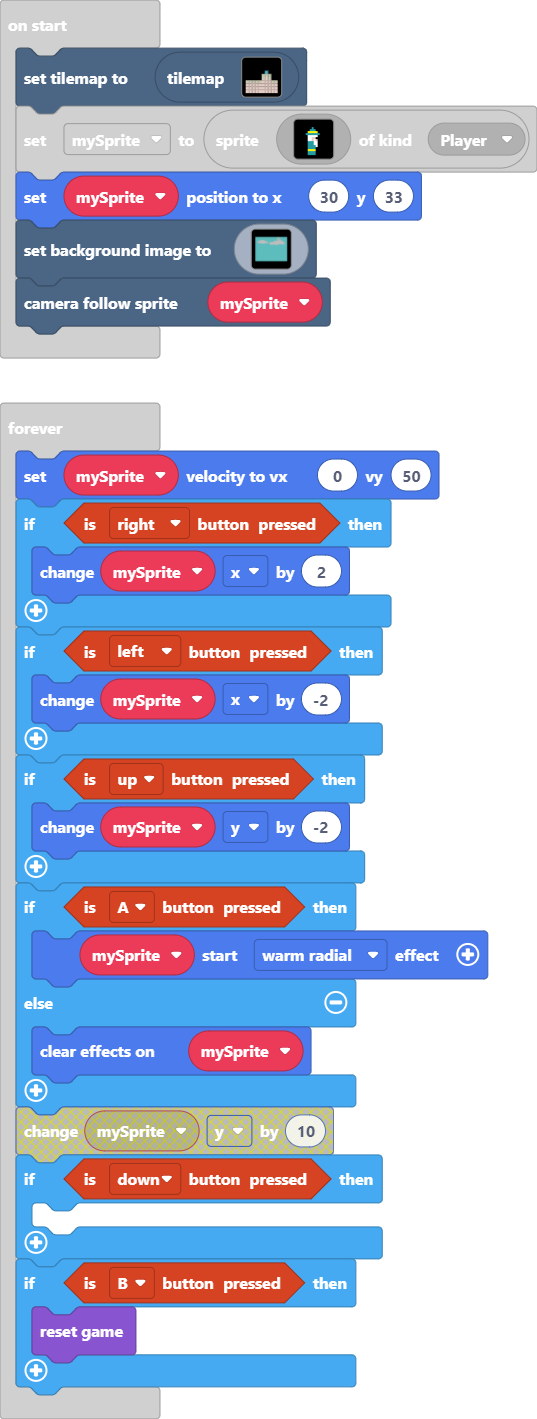
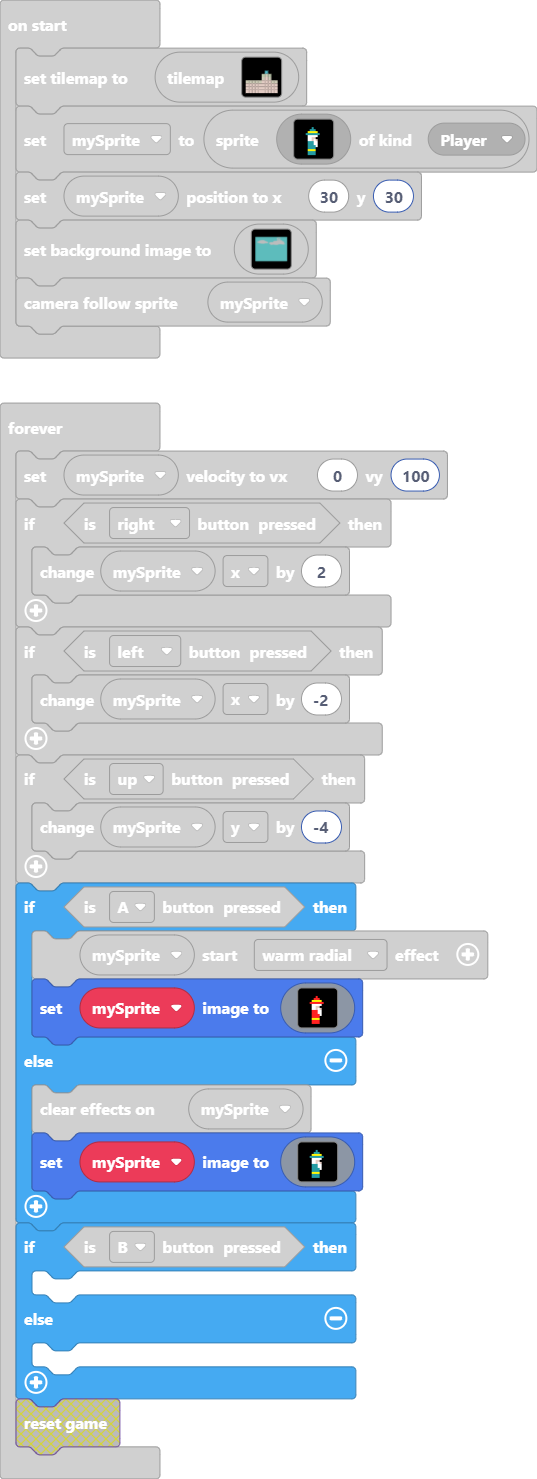
Update pxt.json, main.blocks, main.ts, images.g.jres, images.g.ts

diff --git a/images.g.ts b/images.g.ts
@@ -3,25 +3,6 @@ namespace myImages {
 
     helpers._registerFactory("image", function(name: string) {
         switch(helpers.stringTrim(name)) {
-            case "image1":
-            case "dah Wizard":return img`
-. . . . . . . . . . . . . . . . 
-. . . . . . . . . . . . . . . . 
-. . . . . . . 6 . . . . . . . . 
-. . . . . . 6 6 6 . . . . . . . 
-. . . . . 5 5 5 5 5 . . . . . . 
-. . . . 6 6 6 6 6 6 6 . . . . . 
-. . . . . 1 1 1 1 1 . . . . . . 
-. . . . . 1 1 d d f . . . . . . 
-. . . . . 1 1 d 1 d . . . . . . 
-. . . . . 6 6 6 1 1 . . . . . . 
-. . . . . 6 6 6 1 1 . . . . . . 
-. . . . . 6 6 6 6 1 . . . . . . 
-. . . . . 6 6 6 6 . . . . . . . 
-. . . . . 5 5 5 5 . . . . . . . 
-. . . . . 6 6 6 6 . . . . . . . 
-. . . . . 6 6 6 6 . . . . . . . 
-`;
             case "vTZGO,EA#$rR`clLS6L|":
             case "sus sky":return img`
 9999999999999999999999999999999999999999999999999999999999999999999999999999999999999999999999999999999999999999999999999999999999999999999999999999999999999999
@@ -144,6 +125,44 @@ namespace myImages {
 9999999999999999999999999999999999999999999999999999999999999999999999999999999999999999999999999999999999999999999999999999999999999999999999999999999999999999
 9999999999999999999999999999999999999999999999999999999999999999999999999999999999999999999999999999999999999999999999999999999999999999999999999999999999999999
 9999999999999999999999999999999999999999999999999999999999999999999999999999999999999999999999999999999999999999999999999999999999999999999999999999999999999999
+`;
+            case "image1":
+            case "dah Wizard":return img`
+. . . . . . . . . . . . . . . . 
+. . . . . . . . . . . . . . . . 
+. . . . . . . 6 . . . . . . . . 
+. . . . . . 6 6 6 . . . . . . . 
+. . . . . 5 5 5 5 5 . . . . . . 
+. . . . 6 6 6 6 6 6 6 . . . . . 
+. . . . . 1 1 1 1 1 . . . . . . 
+. . . . . 1 1 d d f . . . . . . 
+. . . . . 1 1 d 1 d . . . . . . 
+. . . . . 6 6 6 1 1 . . . . . . 
+. . . . . 6 6 6 1 1 . . . . . . 
+. . . . . 6 6 6 6 1 . . . . . . 
+. . . . . 6 6 6 6 . . . . . . . 
+. . . . . 5 5 5 5 . . . . . . . 
+. . . . . 6 6 6 6 . . . . . . . 
+. . . . . 6 6 6 6 . . . . . . . 
+`;
+            case "image2":
+            case "dah Wizard but red":return img`
+. . . . . . . . . . . . . . . . 
+. . . . . . . . . . . . . . . . 
+. . . . . . . 2 . . . . . . . . 
+. . . . . . 2 2 2 . . . . . . . 
+. . . . . 5 5 5 5 5 . . . . . . 
+. . . . 2 2 2 2 2 2 2 . . . . . 
+. . . . . 1 1 1 1 1 . . . . . . 
+. . . . . 1 1 d d f . . . . . . 
+. . . . . 1 1 d 1 d . . . . . . 
+. . . . . 2 2 2 1 1 . . . . . . 
+. . . . . 2 2 2 1 1 . . . . . . 
+. . . . . 2 2 2 2 1 . . . . . . 
+. . . . . 2 2 2 2 . . . . . . . 
+. . . . . 5 5 5 5 . . . . . . . 
+. . . . . 2 2 2 2 . . . . . . . 
+. . . . . 2 2 2 2 . . . . . . . 
 `;
         }
         return null;

diff --git a/main.ts b/main.ts
@@ -1,10 +1,10 @@
 tiles.setCurrentTilemap(tilemap`level1`)
 let mySprite = sprites.create(assets.image`dah Wizard`, SpriteKind.Player)
-mySprite.setPosition(30, 33)
+mySprite.setPosition(30, 30)
 scene.setBackgroundImage(assets.image`sus sky`)
 scene.cameraFollowSprite(mySprite)
 forever(function () {
-    mySprite.setVelocity(0, 50)
+    mySprite.setVelocity(0, 100)
     if (controller.right.isPressed()) {
         mySprite.x += 2
     }
@@ -12,17 +12,18 @@ forever(function () {
         mySprite.x += -2
     }
     if (controller.up.isPressed()) {
-        mySprite.y += -2
+        mySprite.y += -4
     }
     if (controller.A.isPressed()) {
         mySprite.startEffect(effects.warmRadial)
+        mySprite.setImage(assets.image`dah Wizard but red`)
     } else {
         effects.clearParticles(mySprite)
-    }
-    if (controller.down.isPressed()) {
-    	
+        mySprite.setImage(assets.image`dah Wizard`)
     }
     if (controller.B.isPressed()) {
-        game.reset()
+    	
+    } else {
+    	
     }
 })
